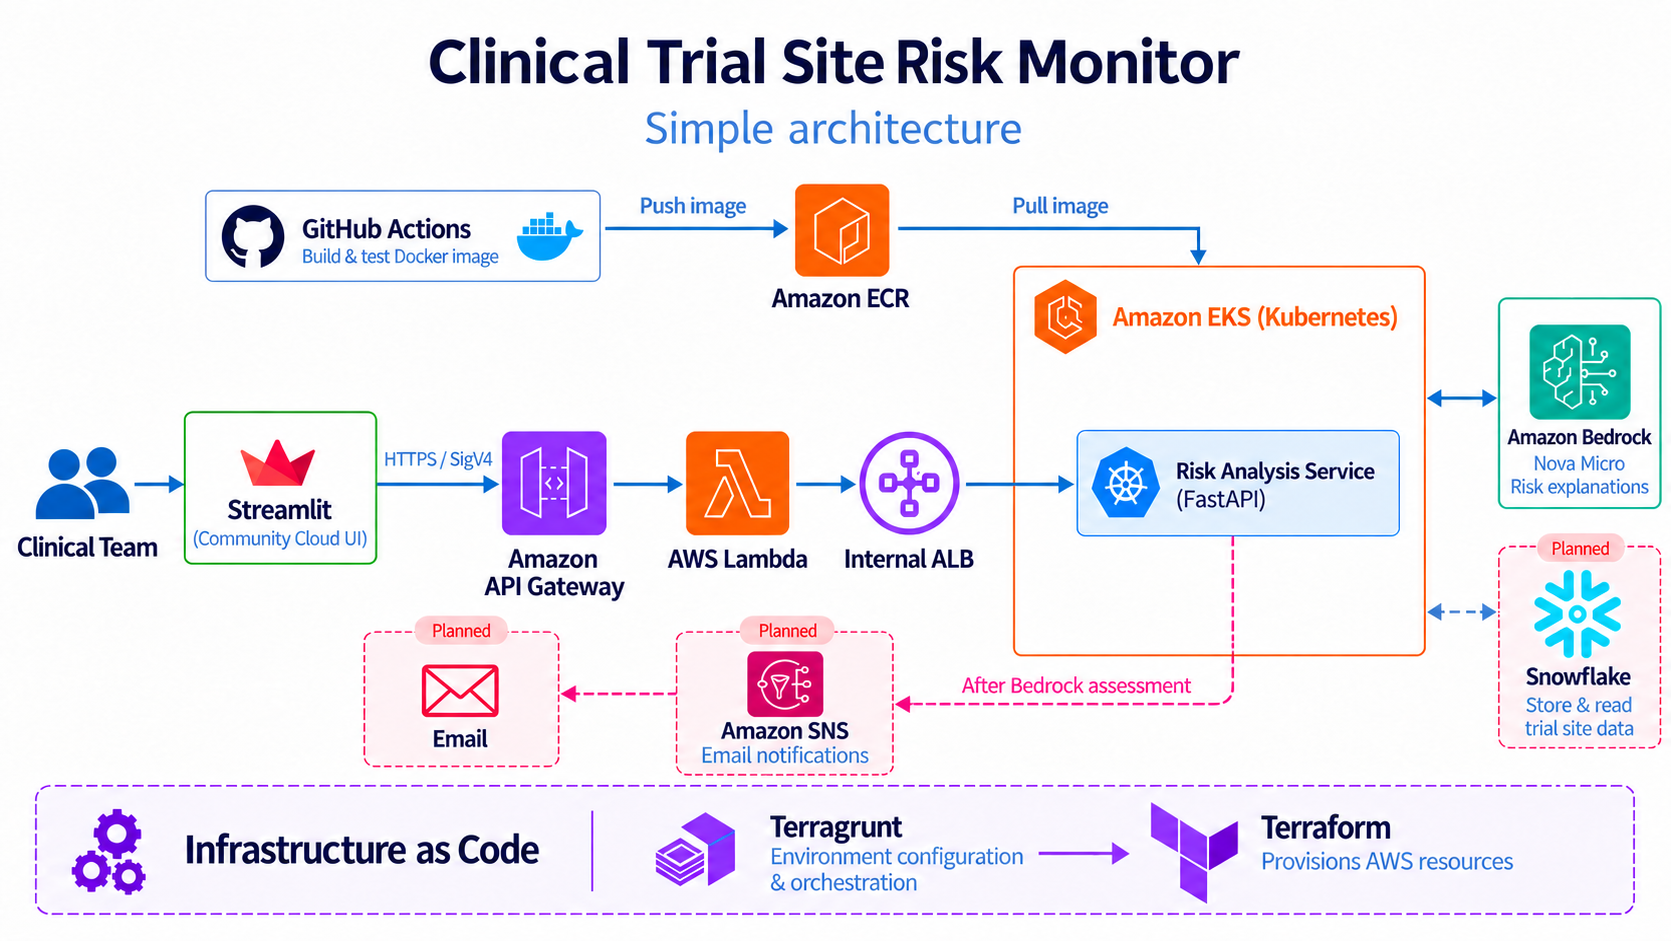
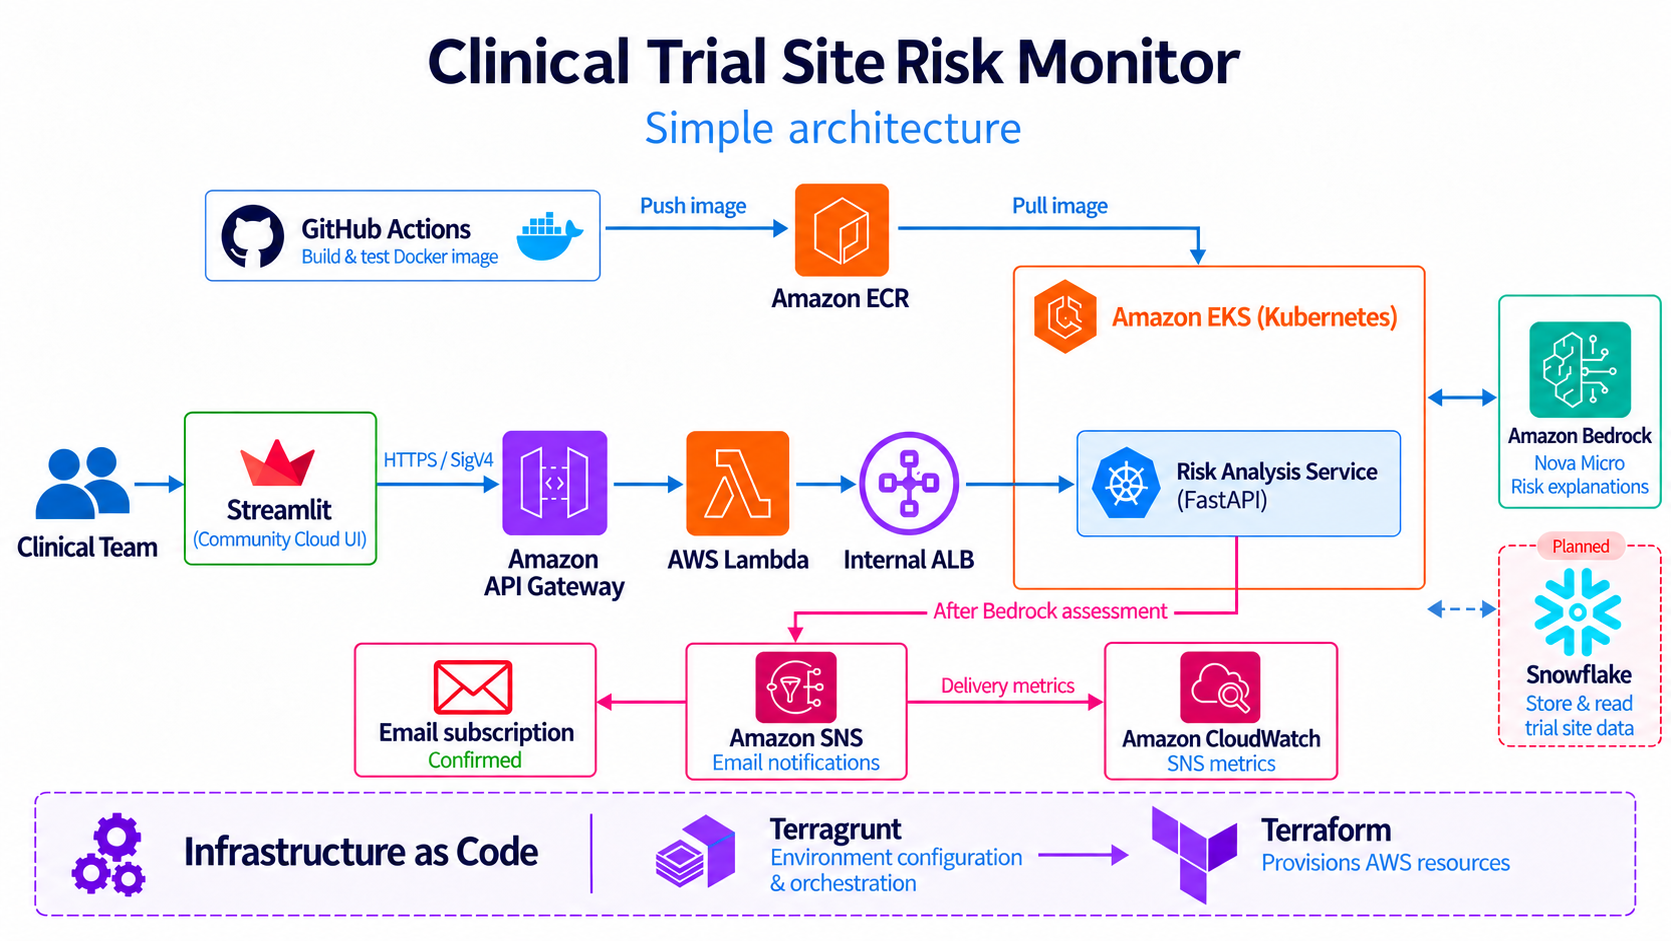
docs: show deployed SNS notifications and CloudWatch metrics

diff --git a/docs/images/architecture-notes.md b/docs/images/architecture-notes.md
@@ -2,9 +2,15 @@
 
 The README uses `clinical-trial-site-risk-monitor-architecture.png`. The diagram was edited with the built-in image generation tool, preserving the existing service layout and infrastructure-as-code strip.
 
-Streamlit, API Gateway, Lambda, the internal ALB, FastAPI on EKS, ECR image delivery, and Bedrock Nova Micro explanations are deployed and verified. Snowflake and the SNS email notification branch are planned. The new branch originates at FastAPI after a Bedrock assessment and follows FastAPI -> Amazon SNS -> Email. There is no direct Bedrock-to-email connection, CloudWatch alarm, or additional notification Lambda in this proposal.
+Streamlit, API Gateway, Lambda, the internal ALB, FastAPI on EKS, ECR image delivery, and Bedrock Nova Micro explanations are deployed. SNS notifications and the confirmed email subscription are implemented and deployed. The notification branch follows FastAPI -> Amazon SNS -> Email subscription. A separate SNS -> CloudWatch connection represents native SNS delivery metrics. CloudWatch does not trigger the emails; there is no CloudWatch alarm or additional notification Lambda. Snowflake alone remains planned. The local assessment email was received; deployment succeeded, while a hosted Streamlit-to-inbox confirmation has not yet been recorded.
 
-## Edit Prompt
+## Implemented Notifications and Monitoring Update
+
+Updated with the built-in image generation tool. The prompt below supersedes the earlier planned-branch prompts, which are retained as edit history.
+
+Use case: precise-object-edit. Update this existing README architecture diagram minimally. Preserve the title, white background, recognizable service logos, main Streamlit -> API Gateway -> Lambda -> Internal ALB -> FastAPI inside EKS path, GitHub Actions -> ECR -> EKS delivery row, Bedrock Nova Micro, Snowflake Planned badge, and Terraform/Terragrunt strip. SNS/email are now IMPLEMENTED: remove their Planned badges and change their dashed borders and notification connectors to solid. Keep directed notification path FastAPI -> Amazon SNS -> Email; email label should read 'Email subscription' with small 'Confirmed' caption. Add one compact Amazon CloudWatch box for 'SNS metrics', connected by a separate one-way SNS -> CloudWatch arrow labeled 'Delivery metrics'. Make room by adding a little height for the notification/monitoring row above the infrastructure strip if needed. Keep SNS centered in that row, Email to its left, CloudWatch to its right, with FastAPI pointing into SNS via a clearly routed solid connector. CloudWatch observes SNS metrics, it does NOT trigger SNS or email. Keep the label 'After Bedrock assessment'. Only Snowflake should be marked Planned. No CloudWatch alarm, dashboards, extra Lambda, queues, real addresses, credentials or account identifiers. Clean readable typography, minimal detail, no overlapping arrows or labels, wide landscape.
+
+## Earlier Edit Prompt
 
 Use case: precise-object-edit. Edit target: existing Clinical Trial Site Risk Monitor README architecture diagram. Preserve all existing services, their logos, typography, clean white background, main left-to-right application flow, CI/ECR image-delivery row, Bedrock Nova Micro connection, Snowflake Planned status, and Terraform/Terragrunt strip. Add ONLY the proposed email-notification branch: the Risk Analysis Service (FastAPI) inside EKS publishes an assessment notification to Amazon SNS, which delivers to an Email envelope icon. The connection must visibly originate at FastAPI/EKS, NOT at Bedrock or Lambda. Show two one-way dashed arrows: FastAPI -> Amazon SNS -> Email. Place SNS and Email in the available lower-left whitespace below the application flow and above the Terraform/Terragrunt strip, with routed connectors that do not cross existing services or text. Label the branch 'After Bedrock assessment' and clearly mark Amazon SNS/email notifications as 'Planned', using the same planned styling convention as Snowflake. Use the recognizable AWS SNS magenta icon and a simple email envelope; generic 'Email' label only, no real address. If necessary add a little vertical spacing to maintain readable labels and avoid overlaps; retain a wide landscape composition and uncropped content. No CloudWatch, alarms, extra Lambda, queues, dashboards, new compute, start/stop buttons, identifiers, or implementation detail. Keep the diagram minimal and readable.
 

diff --git a/README.md b/README.md
@@ -39,11 +39,11 @@ The goal is to make a site's operational status easy to review without manually 
 
 ## Architecture
 
-![Clinical Trial Site Risk Monitor architecture showing the verified Streamlit, API Gateway, Lambda, internal ALB, EKS/FastAPI, and Nova Micro connection, with ECR image delivery, planned Snowflake storage, and planned SNS email notifications](docs/images/clinical-trial-site-risk-monitor-architecture.png)
+![Clinical Trial Site Risk Monitor architecture showing Streamlit, API Gateway, Lambda, internal ALB, EKS/FastAPI, Nova Micro, ECR image delivery, implemented SNS email notifications with a confirmed subscription and CloudWatch SNS metrics, and planned Snowflake storage](docs/images/clinical-trial-site-risk-monitor-architecture.png)
 
 Terragrunt manages environment configuration and orchestrates Terraform, which provisions the AWS infrastructure shown above.
 
-The working request path is Streamlit Community Cloud -> API Gateway -> Lambda -> internal ALB -> FastAPI on EKS. FastAPI calculates the risk using Python rules and calls Amazon Bedrock Nova Micro for a separate explanation. The hosted UI and AI response are verified. GitHub Actions publishes the container to ECR; Terraform and Terragrunt manage AWS infrastructure. Snowflake storage remains planned. The SNS notification branch has been implemented and tested locally, including a confirmed demo email. Its hosted application rollout remains pending; the diagram marks that branch as planned until the updated image is deployed.
+The working request path is Streamlit Community Cloud -> API Gateway -> Lambda -> internal ALB -> FastAPI on EKS. FastAPI calculates the risk using Python rules and calls Amazon Bedrock Nova Micro for a separate explanation. The hosted UI and AI response are verified. GitHub Actions publishes the container to ECR; Terraform and Terragrunt manage AWS infrastructure. After a Bedrock assessment attempt, FastAPI publishes an event to Amazon SNS for delivery to the confirmed email subscription. This notification functionality is implemented and deployed. CloudWatch provides SNS publish, delivery, and failure metrics; emails are sent directly by SNS, without a CloudWatch alarm. Snowflake storage remains planned.
 
 ## Development Setup
 

diff --git a/docs/notifications.md b/docs/notifications.md
@@ -59,10 +59,10 @@ A successful publish means SNS accepted the message; it does not prove inbox del
 
 Unit tests cover the exact topic, minimal message content, successful/unavailable AI events, disabled/invalid inputs, safe failure logging, and preserving the real FastAPI response after an SNS timeout. Mocked Terraform tests cover email confirmation, the HTTPS-only resource policy, exact IAM scope, and the topic environment variable. Container tests run without live SNS settings, so CI never sends email.
 
-The diagram keeps the notification branch marked planned until the new application image is deployed and the hosted assessment-to-email flow is verified. The infrastructure and local integration verification status should be recorded separately from the production rollout.
+The architecture diagram shows the implemented SNS email subscription and CloudWatch SNS metrics. CloudWatch observes delivery metrics; it does not trigger these assessment emails.
 
 ## Verified Setup Status
 
 The reviewed Terraform plans created the topic, transport policy, and subscription, updated the application permissions boundary, and added the exact publisher policy. The recipient confirmed the subscription. Access Analyzer reported zero findings on the IAM/topic policies, and IAM simulation allowed the project topic while denying an unrelated topic.
 
-A real local FastAPI assessment called Nova Micro, returned High with five reasons and an available explanation, and published its status event. The recipient confirmed receipt of the demo email. The new image is not yet deployed on EKS; hosted assessment notifications remain pending the post-merge publication/deployment steps above.
+A real local FastAPI assessment called Nova Micro, returned High with five reasons and an available explanation, and published its status event. The recipient confirmed receipt of the demo email. The updated image was subsequently published and the EKS deployment workflow completed successfully. The notification branch is implemented and deployed; the Streamlit assessment-to-inbox check remains the final hosted demonstration check.
